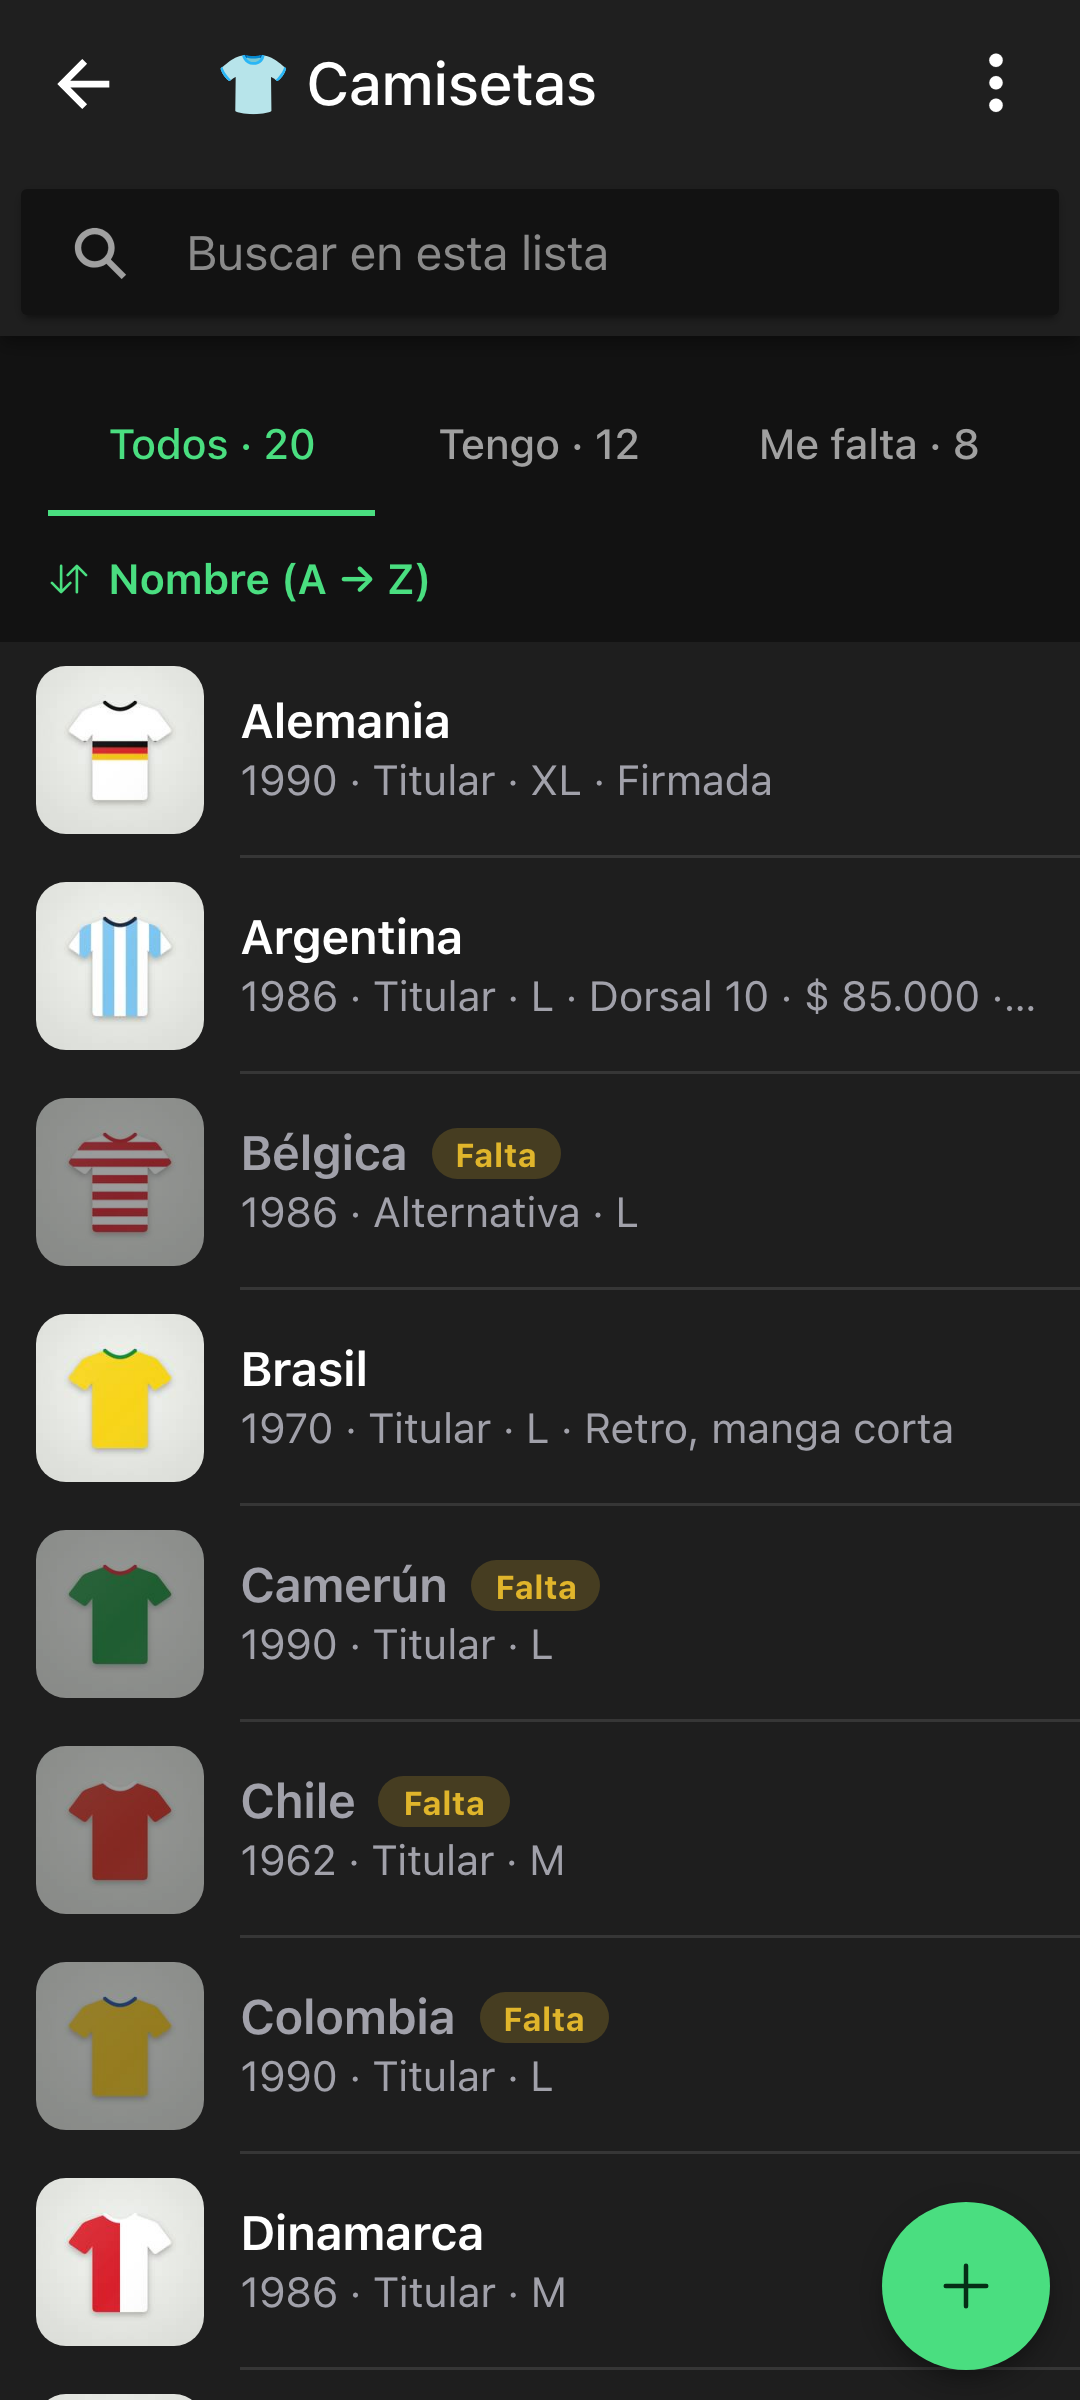
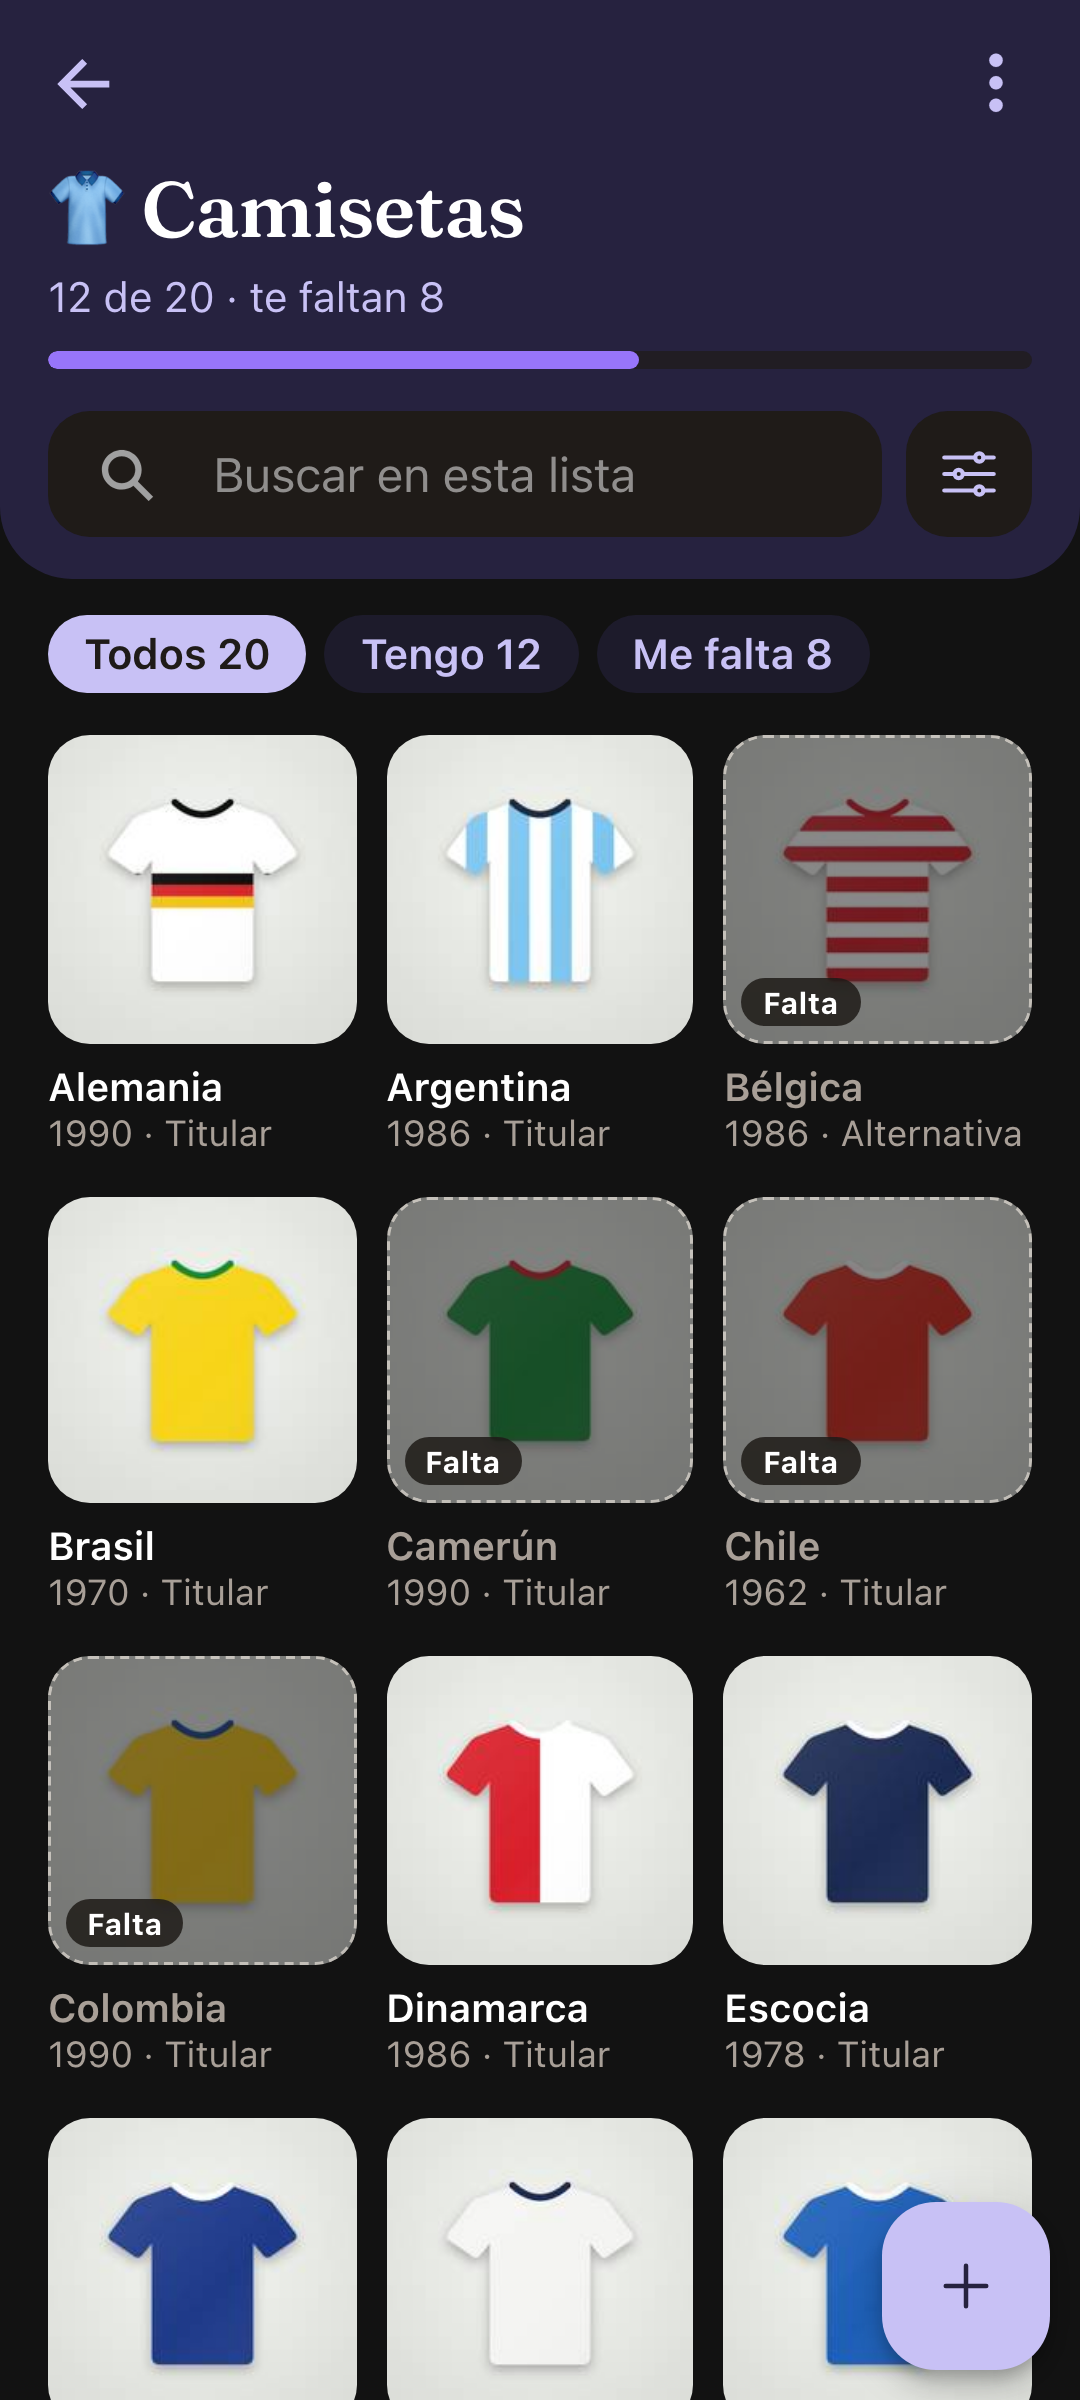
Ship 1.4.0 with refreshed store images
Store screenshots now show the warm album look and the photo grid; the
capture script drives the grid and status chips. In select mode a fast
tap on a tile selects it instead of opening it.

diff --git a/src/views/ListPage.vue b/src/views/ListPage.vue
@@ -400,7 +400,7 @@ async function confirmDelete() {
             :selecting="selecting"
             :selected="selected.has(i.id)"
             @select="toggleSelected(i)"
-            @open="openItem(i)"
+            @open="selecting ? toggleSelected(i) : openItem(i)"
           />
         </div>
         <ion-list v-else class="items">

diff --git a/assets/store/FICHA.md b/assets/store/FICHA.md
@@ -117,7 +117,7 @@ Play Console → Política → **Contenido de la app**. Una sección por vez:
 - Huellas de la clave de subida (solo para verificar):
   - SHA-1: `56:60:89:E2:DC:D8:E8:D6:51:18:B4:10:DA:B7:25:25:2A:45:BA:CC`
   - SHA-256: `11:DF:CA:44:FE:2F:2B:57:A4:AF:49:61:C1:98:09:33:BB:34:DB:EB:28:E9:31:15:F1:6C:3B:B2:D2:C9:2F:35`
-- Chequeado el 2026-10-23 (1.1.0, versionCode 2); la 1.2.0 (versionCode 3, 2026-11-04) y la 1.3.0 (versionCode 4, 2026-11-12) no cambian permisos ni librerías nativas:
+- Chequeado el 2026-10-23 (1.1.0, versionCode 2); la 1.2.0 (versionCode 3, 2026-11-04) la 1.3.0 (versionCode 4, 2026-11-12) y la 1.4.0 (versionCode 5, 2026-11-17) no cambian permisos ni librerías nativas:
   - Apunta a API 36.
   - Las librerías nativas (SQLCipher del plugin de SQLite y las de la cámara) están alineadas a 16 KB, como pide Play.
   - Permisos: solo internet (lo agrega Capacitor). Se sacaron los de huella que suma el plugin de SQLite: la app no los usa.
@@ -127,14 +127,13 @@ Play Console → Política → **Contenido de la app**. Una sección por vez:
 
 - **Países:** Argentina para empezar (la app está en castellano rioplatense). Se pueden sumar después sin subir otra versión.
 - **Prueba cerrada obligatoria:** la cuenta de desarrollador es personal y nueva, así que para pasar a producción Google exige una prueba cerrada con **12 testers o más durante 14 días seguidos**. Conviene invitar unos 15. Ver la Etapa 6 de `gastos/docs/plan-publicacion-play-store.md`: es el mismo procedimiento.
-- **Notas de la versión** (1.3.0):
+- **Notas de la versión** (1.4.0):
 
 ```text
 <es-419>
-• Nuevo "Tuve": guardá lo que regalaste, vendiste o se rompió, con motivo y fecha.
-• Hasta 5 fotos por pieza, y pasalas con flechas o deslizando.
-• Borrar ahora pide confirmación y no deja rastro.
-• Al importar un backup, si algo cambió, elegís con cuál quedarte.
-• Sin repetidos: avisa si ya tenés una pieza con el mismo nombre, año y versión.
+• Nueva cara: colores cálidos y cada lista con su propio color.
+• En el inicio ves cuánto completaste de cada lista.
+• Las listas se abren en grilla de fotos (o en filas, si preferís).
+• Buscar, ordenar y filtrar, todo junto arriba; los filtros puestos siempre a la vista.
 </es-419>
 ```
